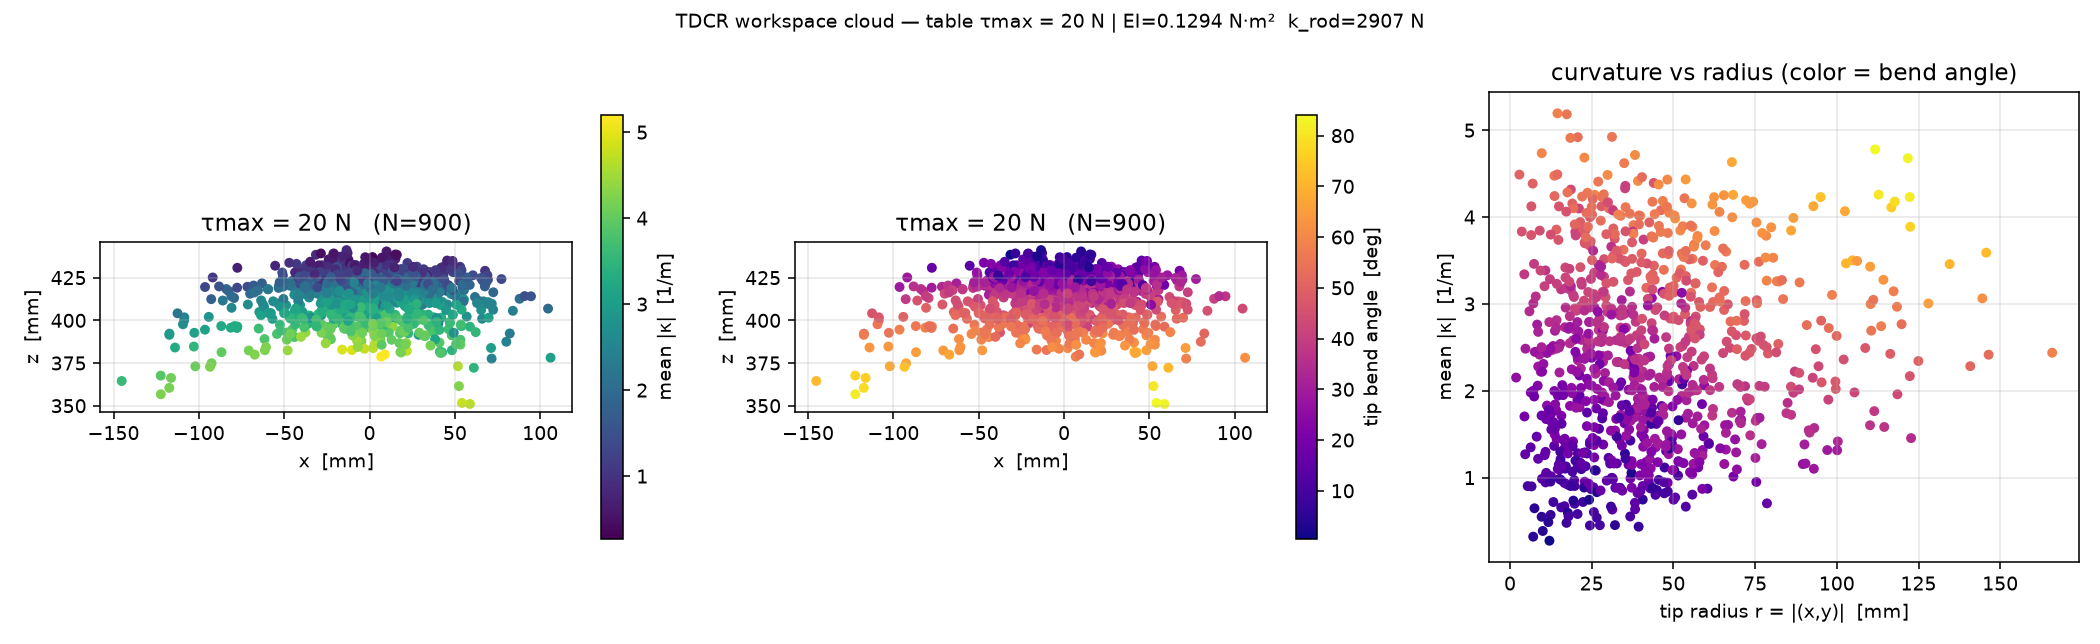
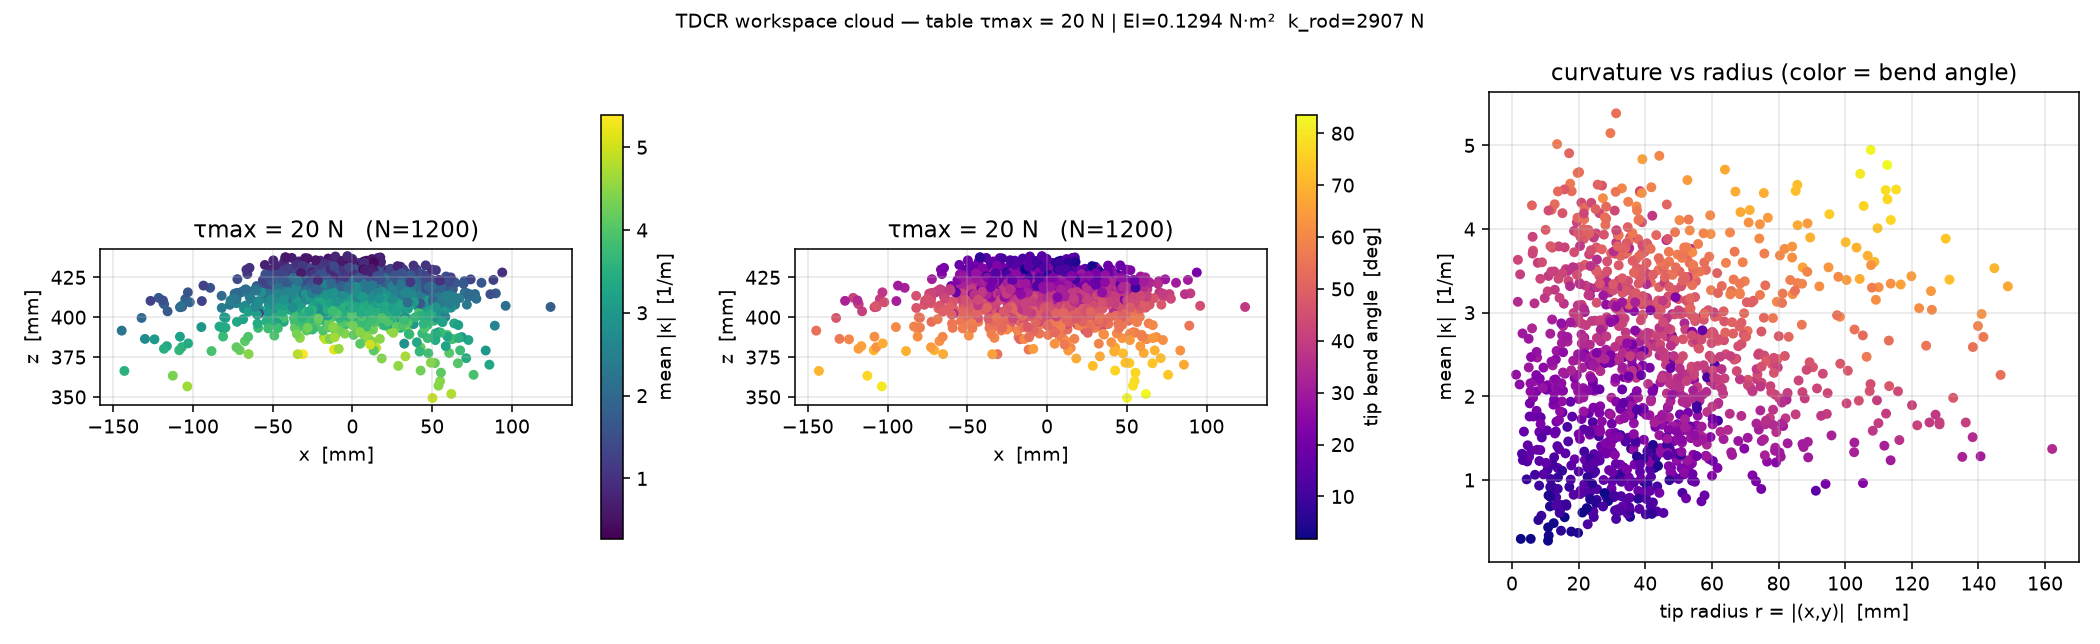
update: 统一表网格并刷新模型包
20N 601->61 节点(与40N 统一), 27.3MB -> 3.12MB; 点数/点间距/弯角不变(NN 4.51mm, 1.9-83.4°)
model/ 精简表刷新: 20N 1200 点 / 40N 900 点
tdcr_model_20261022.tdcrmodel: 5.5MB (原 38.3MB), sha256 全通过
新增 tools/supplement_table.py (定向补采样: 换种子 LHS + 剔除近邻 + 合并去重)
.gitignore 加 *.prev* (建表备份 56MB 不入库)
云图重出 (20N 1200点 / 40N 900点)
⚠ info 仍告警: 表按默认臂建(EI=0.1294) 与 tdcr_model 标定(EI=0.045) 不同源

diff --git a/tools/supplement_table.py b/tools/supplement_table.py
@@ -1,0 +1,114 @@
+# -*- coding: utf-8 -*-
+"""supplement_table.py — 给位姿表**定向补采样**并合并
+
+背景：`main.py build 40 --n 1200 --force` 用固定 LHS 种子，重跑只会得到
+**同样的** 1200 个 τ（40N 下 776 入库）。要真正加点，必须
+① 换种子生成**新的** τ；② 与已有表**合并**，而不是覆盖。
+
+本脚本做三件事：
+  1. 读旧表 → 把 κ 曲线抽到 `--nodes`（默认 61）保持与新增样本同网格
+  2. 用 `--seed` 生成新 τ（LHS），剔除与旧表过近的点（`--min-dist` 相对距离）
+  3. `build_table(taus=…)` 只解这些新点 → 合并 → 存盘
+
+    python tools/supplement_table.py --tau 40 --add 655 --seed 1
+
+⚠ 采样点数 655 是"尝试次数"；40N 接受率约 65% ⇒ 预计 +425 个入库点。
+⚠ 合并后表是 `--nodes` 节点的精简网格（tau/dL/p_tip/R_tip/res/x 不受影响）。
+"""
+from __future__ import annotations
+
+import argparse
+import os
+import sys
+import time
+
+import numpy as np
+
+sys.path.insert(0, os.path.dirname(os.path.dirname(os.path.abspath(__file__))))
+os.environ.setdefault("TC_NO_JIT", "1")
+
+from ik_table import (load_table, save_table, build_table, lhs,   # noqa: E402
+                      default_params)
+
+
+def decimate(recs, nodes):
+    """把每条记录的 κ 曲线抽到 `nodes` 个节点（保持 kS/kK/kV 一致）。"""
+    out = []
+    for r in recs:
+        kc = r.get("kcoef") or {}
+        S = np.asarray(kc.get("S", []), float)
+        K = np.asarray(kc.get("K", []), float)
+        V = kc.get("V", None)
+        if S.size != nodes:
+            idx = np.linspace(0, S.size - 1, nodes).round().astype(int)
+            nk = dict(S=S[idx], K=K[idx])
+            if V is not None:
+                nk["V"] = np.asarray(V, float)[idx]
+            r = dict(r); r["kcoef"] = nk
+        out.append(r)
+    return out
+
+
+def main():
+    ap = argparse.ArgumentParser()
+    ap.add_argument("--tau", type=float, default=40.0)
+    ap.add_argument("--add", type=int, default=655, help="新增尝试数")
+    ap.add_argument("--seed", type=int, default=1, help="新采样的 LHS 种子")
+    ap.add_argument("--nodes", type=int, default=61)
+    ap.add_argument("--min-dist", type=float, default=0.02,
+                    help="与旧点的最小相对距离（按 τmax 归一化）")
+    ap.add_argument("--batch", type=int, default=200)
+    a = ap.parse_args()
+
+    path = f"vc_table_{a.tau:g}.npz"
+    if not os.path.exists(path):
+        sys.exit(f"找不到 {path}")
+    old = load_table(path)
+    P = old.params or default_params()
+    n_old = len(old.recs)
+    print(f"[1] 旧表 {path}: {n_old} 点  EI={P.EI:.4g} k_rod={P.k_rod:.4g}", flush=True)
+
+    # ── 新 τ：换种子 LHS，剔除与旧点过近的 ──
+    u = lhs(a.add * 2, 6, seed=a.seed)                # 多抽一倍，筛完再用
+    tau_old = np.array([r["tau"] for r in old.recs], float) / a.tau
+    keep = []
+    for row in u:
+        if len(keep) >= a.add:
+            break
+        if tau_old.size and np.min(np.linalg.norm(tau_old - row, axis=1)) < a.min_dist:
+            continue
+        keep.append(row)
+    new_taus = np.array(keep, float) * a.tau
+    print(f"[2] 新 τ: 生成 {len(new_taus)} 个（已剔除与旧点 <{a.min_dist} 的点）", flush=True)
+
+    t0 = time.time()
+    recs_new = build_table(N=len(new_taus), tau_max=a.tau, params=P,
+                           taus=new_taus, batch_size=a.batch,
+                           continuation=tuple(np.linspace(0.1, 1.0, 16)),
+                           verbose=True)
+    print(f"[3] 新增入库 {len(recs_new)}/{len(new_taus)}  "
+          f"用时 {(time.time()-t0)/60:.1f} min", flush=True)
+
+    # ── 合并（旧表先抽到同一网格）──
+    merged = decimate(old.recs, a.nodes) + decimate(recs_new, a.nodes)
+    # 按 τ 去重（保留先出现的）
+    seen, uniq = set(), []
+    for r in merged:
+        k = tuple(np.round(np.asarray(r["tau"], float), 6))
+        if k in seen:
+            continue
+        seen.add(k); uniq.append(r)
+    print(f"[4] 合并: {n_old} + {len(recs_new)} -> {len(uniq)} 点（去重后）", flush=True)
+
+    if os.path.exists(path):
+        bak = path + ".prev2"
+        os.replace(path, bak)
+        print(f"[5] 旧表 -> {bak}")
+    save_table(path, uniq, params=P)
+    print(f"[6] 已存 {path}  {os.path.getsize(path)/1e6:.1f} MB  "
+          f"节点数={a.nodes}  总用时 {(time.time()-t0)/60:.1f} min", flush=True)
+    return 0
+
+
+if __name__ == "__main__":
+    sys.exit(main())
